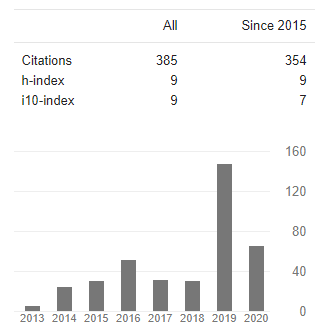
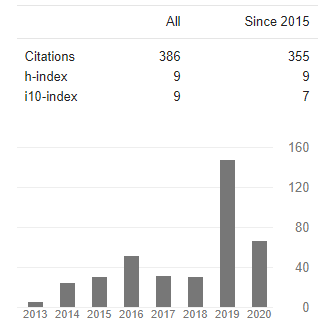
update_06_13_2020

diff --git a/research.html b/research.html
@@ -23,7 +23,7 @@
 		</strong>
     </blockquote> 
 	<br/>
-    My Google Scholar Snapshot <b>(May 2020)</b>
+    My Google Scholar Snapshot <b>(June 2020)</b>
 	<br/>
 	<br/>
 	<img src="images/scholarstat.png" width="305" height="295" >
